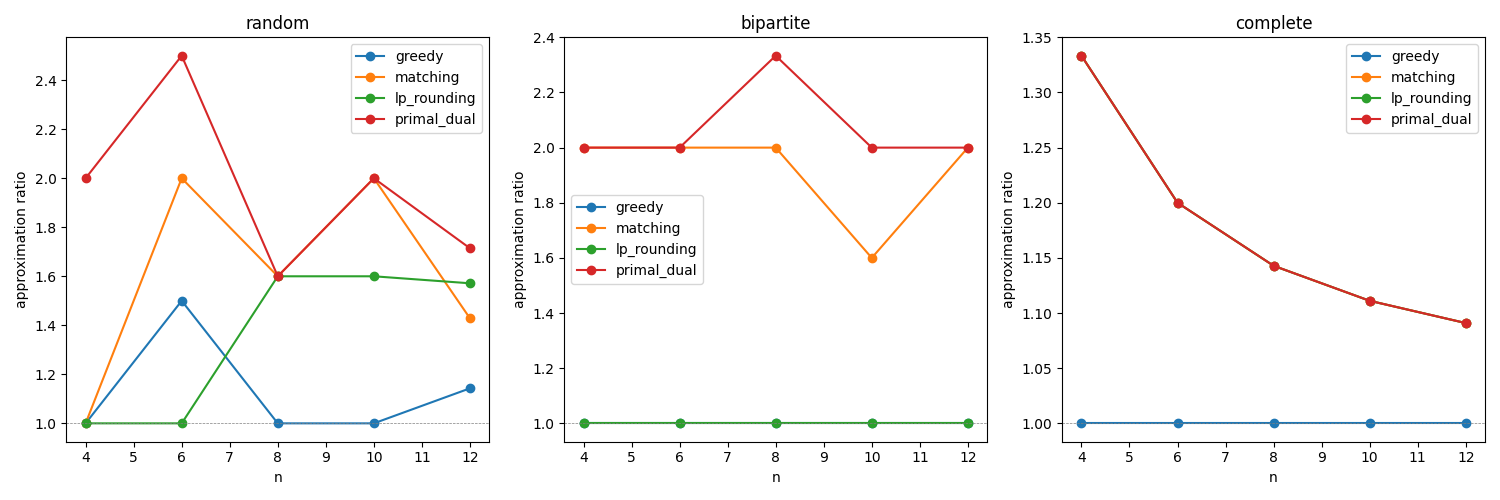
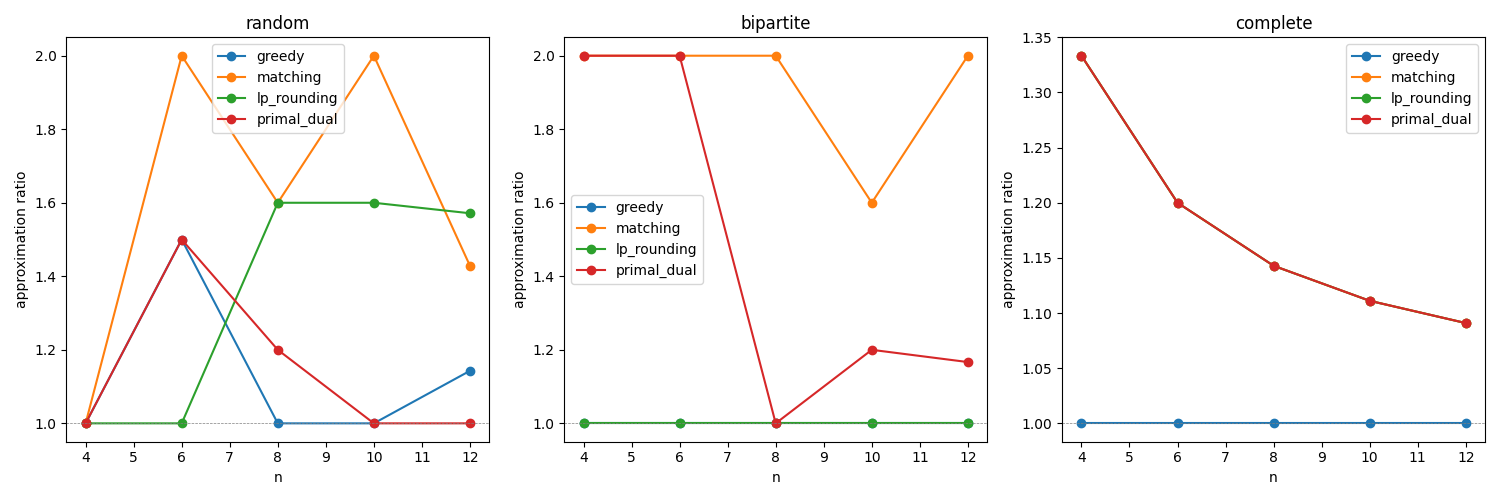
Fix numpy/matplotlib environment conflict, regenerate Vertex Cover small-scale plot with corrected primal-dual

diff --git a/experiments.py b/experiments.py
@@ -9,7 +9,7 @@ from graphs import random_graph, bipartite_graph, complete_graph
 from exact import exact_vertex_cover
 from heuristics import greedy_vertex_cover, matching_vertex_cover
 from lp_rounding import lp_relaxation_vertex_cover, round_lp_solution
-from primal_dual import primal_dual_vertex_cover
+from primal_dual_fixed import primal_dual_vertex_cover_fixed as primal_dual_vertex_cover
 
 
 def run_all_methods(G):
